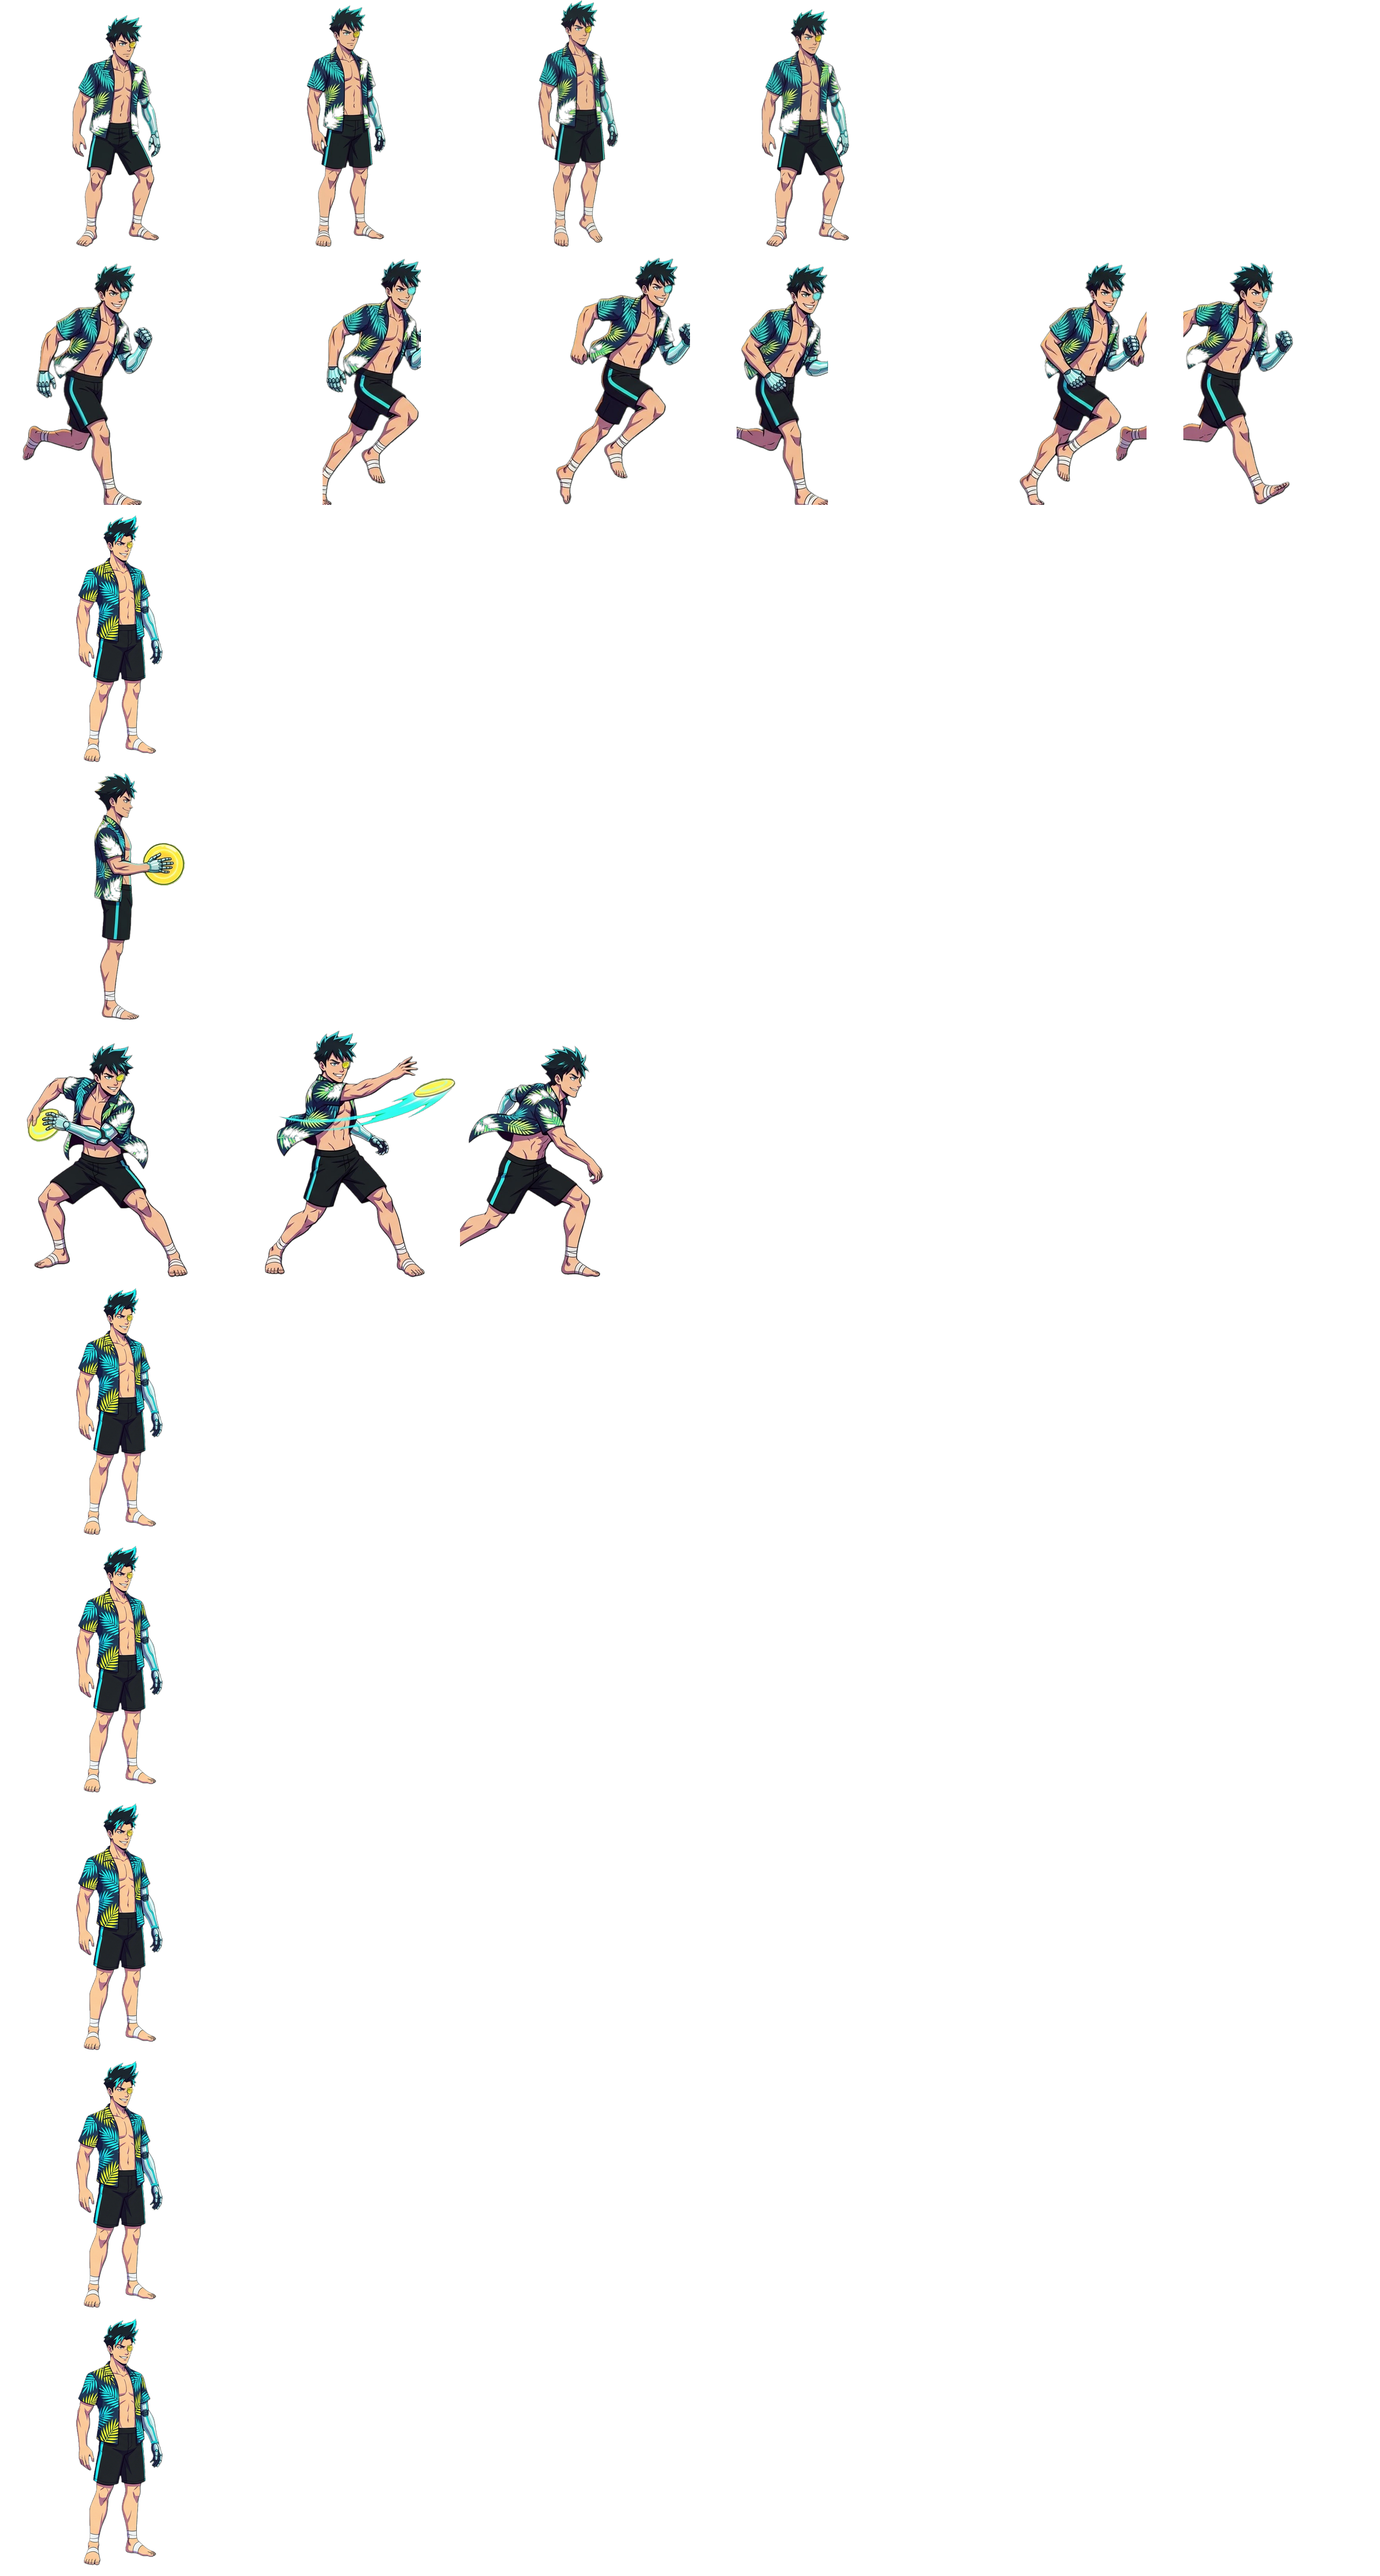
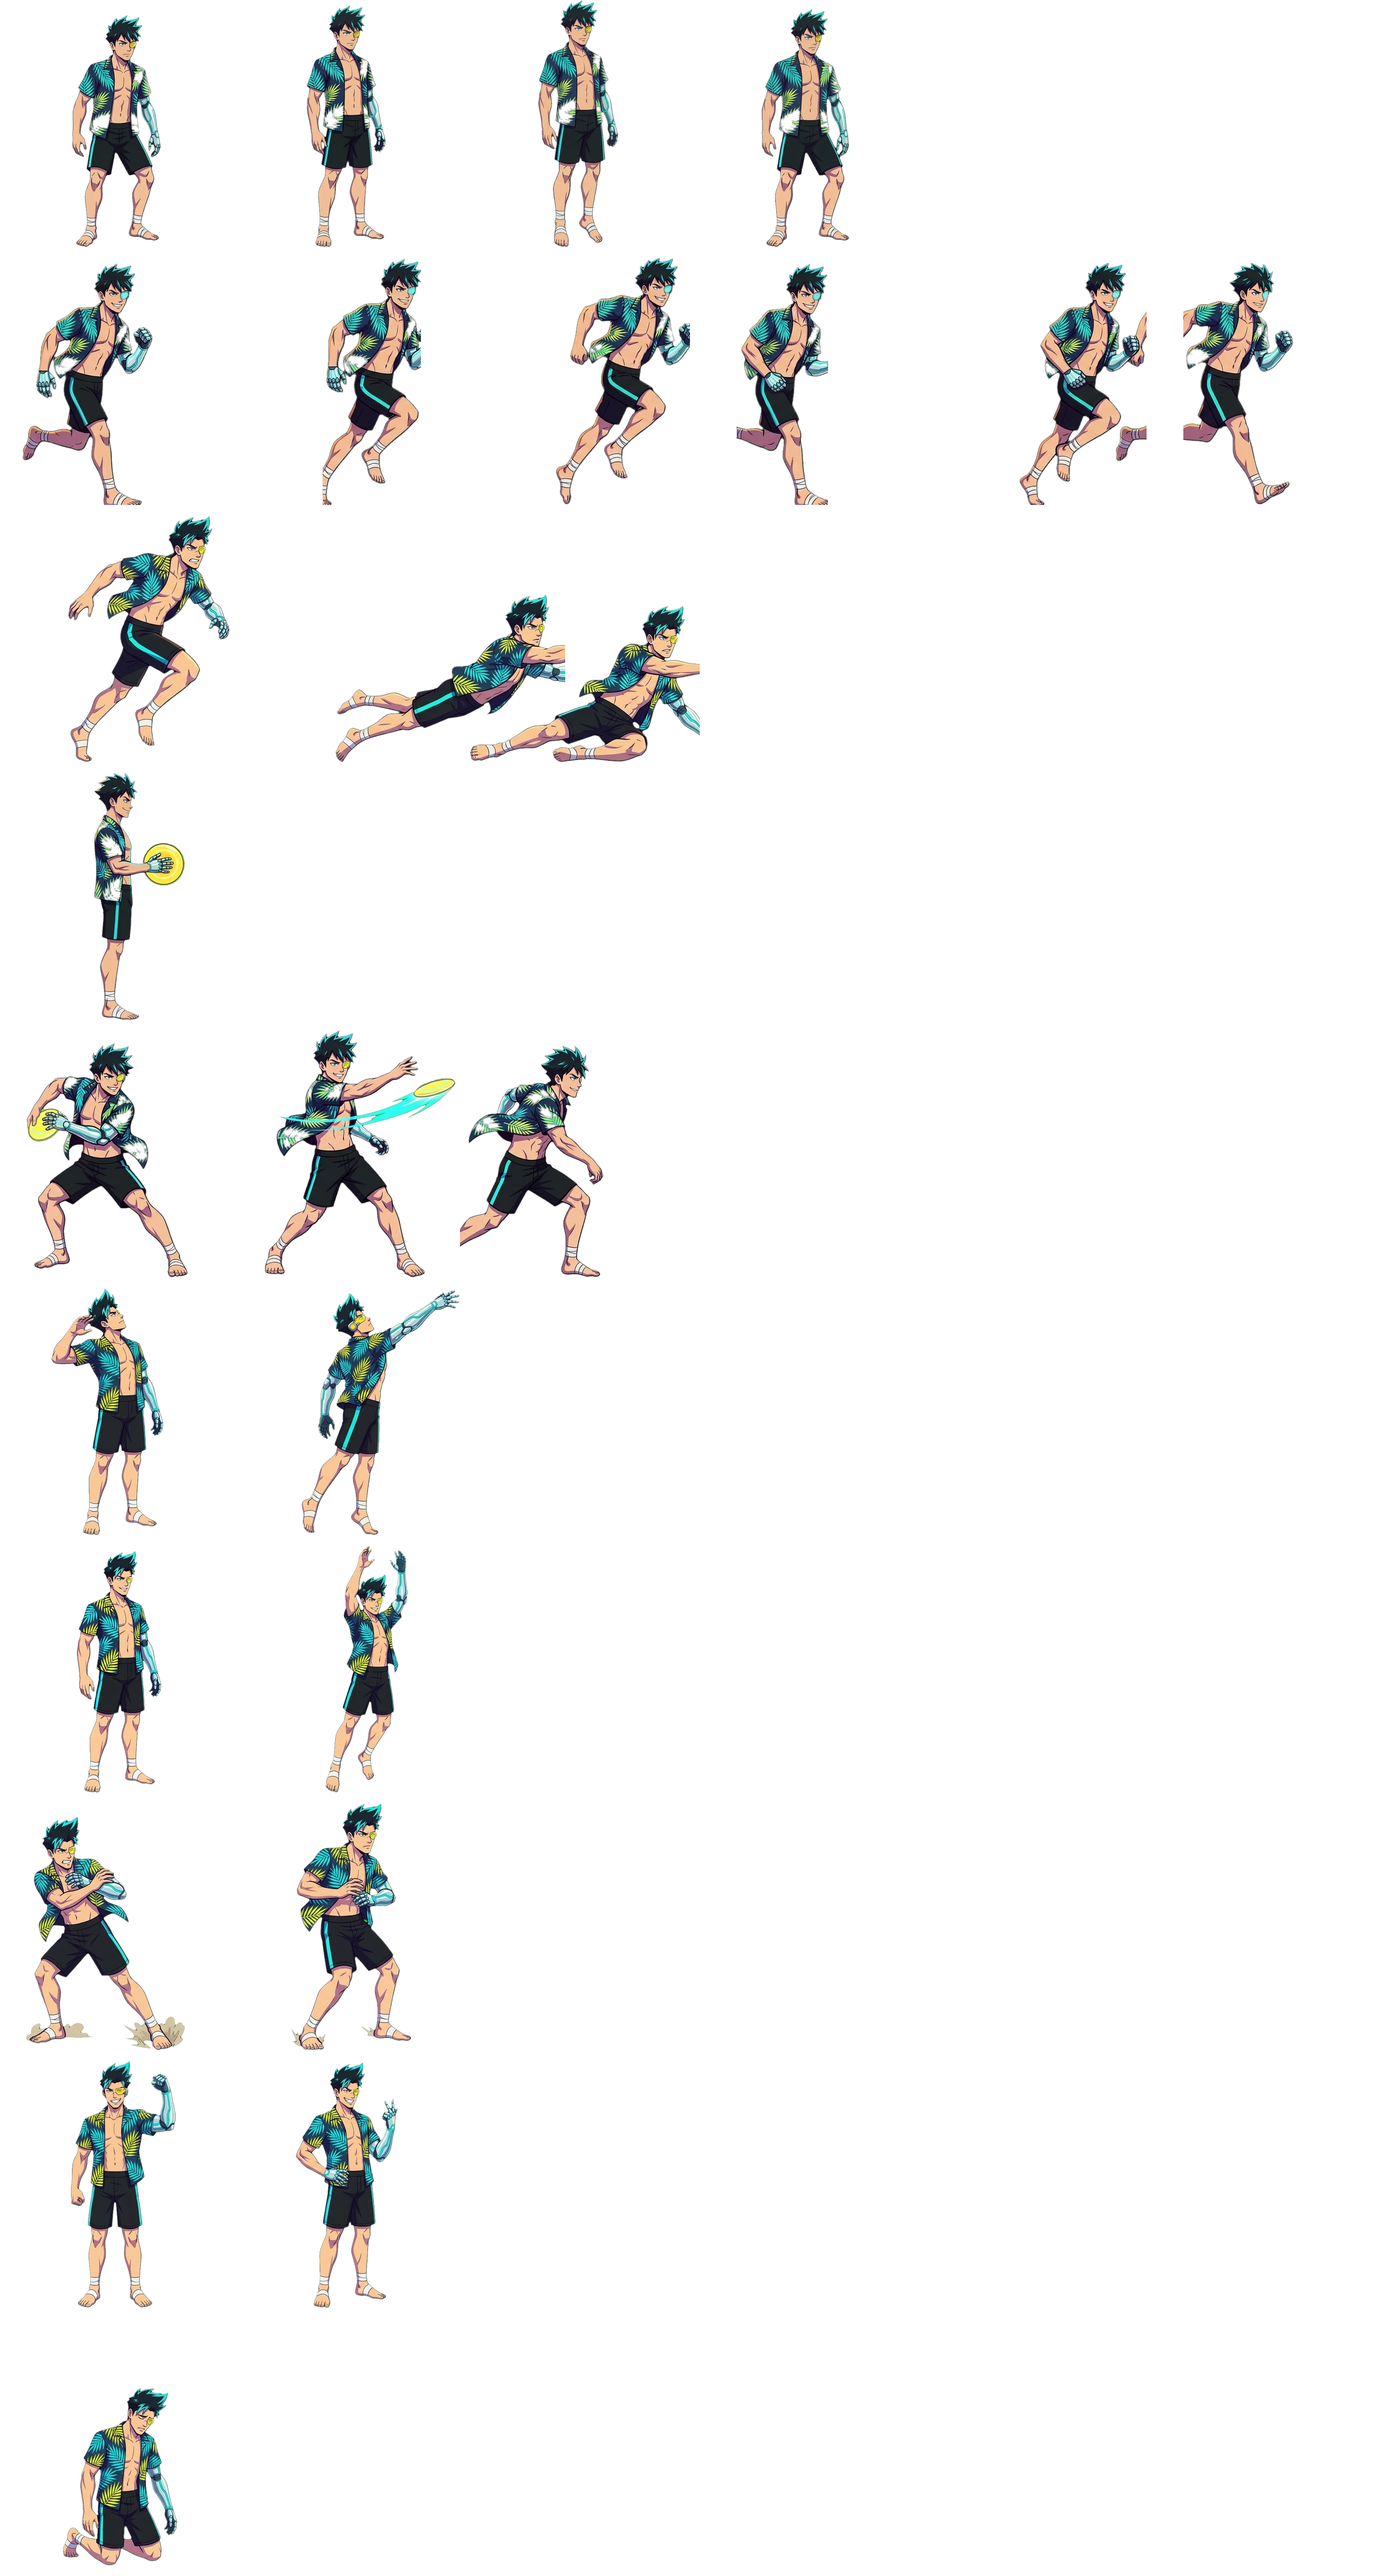
Integrate batch04 part 1: Vega + Kaito complete (dash/lob/block/knock/win/lose), Roxy throw; component-based slicing for overlapping figures; per-anim scale; requeue 4.14+
Claude-Session: https://claude.ai/code/session_019M5Dpgc2psw9ifHCzpuztd

diff --git a/tools/gen-assets/build_assets.py b/tools/gen-assets/build_assets.py
@@ -65,6 +65,41 @@ def frames_of(src: Path, expect: int, work: Path, ground_line=False):
     return sorted(fdir.glob("*.png"), key=lambda p: int(p.stem.rsplit("_", 1)[1]))
 
 
+def component_frames(src: Path, work: Path, picks: list, ground_line=False):
+    """Frames = separate connected figures (sorted left->right), for strips whose figures overlap
+    horizontally. A pick is a component index, or {"c": idx, "x0": .., "x1": ..} to trim a figure
+    that touches its neighbour (x in source-image pixels)."""
+    sys.path.insert(0, str(HERE))
+    import cv2
+    import process
+
+    work.mkdir(parents=True, exist_ok=True)
+    keyed = work / (src.stem + "_keyed.png")
+    run("key", src, keyed)
+    if ground_line:
+        strip_ground_line(keyed)
+    img = np.array(Image.open(keyed))
+    a = (img[..., 3] > 40).astype(np.uint8)
+    n, lbl, st, _ = cv2.connectedComponentsWithStats(a, 8)
+    comps = sorted([i for i in range(1, n) if st[i, cv2.CC_STAT_AREA] > a.size * 0.003], key=lambda i: st[i, cv2.CC_STAT_LEFT])
+    out = []
+    for k, p in enumerate(picks):
+        spec = p if isinstance(p, dict) else {"c": p}
+        mask = lbl == comps[spec["c"]]
+        if "x0" in spec or "x1" in spec:
+            xs = np.arange(img.shape[1])
+            mask &= (xs >= spec.get("x0", 0))[None, :] & (xs < spec.get("x1", img.shape[1]))[None, :]
+        # keep nearby soft edge pixels of this figure
+        mask = cv2.dilate(mask.astype(np.uint8), np.ones((3, 3), np.uint8)).astype(bool)
+        fr = img.copy()
+        fr[..., 3] = np.where(mask, fr[..., 3], 0)
+        fr = process.clean_frame(fr)
+        f = work / f"{src.stem}_c{k}.png"
+        Image.fromarray(fr, "RGBA").save(f)
+        out.append(f)
+    return out
+
+
 def build_character(cid: str, spec: dict):
     work = WORK / cid
     ref_frames = frames_of(HERE / spec["ref"], 4, work)
@@ -80,6 +115,10 @@ def build_character(cid: str, spec: dict):
                 vargs += ["--dur", a["dur"]]
             run(*vargs)
             anims[name] = {"frames": [str(vdir / f"k_{i:04d}.png") for i in a["frames"]], "fps": a.get("playFps", fps), "loop": loop}
+            flags[name] = {"discInArt": bool(a.get("discInArt"))}
+        elif a and a.get("mode") == "components":
+            fr = component_frames(HERE / a["src"], work, a["frames"], a.get("groundLine", False))
+            anims[name] = {"frames": [str(f) for f in fr], "fps": fps, "loop": loop, "scale": a.get("scale", 1.0)}
             flags[name] = {"discInArt": bool(a.get("discInArt"))}
         elif a:
             fr = frames_of(HERE / a["src"], a["expect"], work, a.get("groundLine", False))

diff --git a/CHECKLIST.md b/CHECKLIST.md
@@ -103,7 +103,7 @@ Order: idle(4) run(6) dash(3) hold(2) throw(3) lob(2) block(2) knock(2) win(2) l
 - ✅ Real animations: Vega and Kaito idle/run/hold/throw; Roxy and Brick idle/run/hold. The rest falls back to the interim pose with procedural motion.
 - ✅ Courts: all 4 arenas. ✅ Backdrops: Neon Pier, Laser Lagoon. ❌ Sunset and Orbital backdrops came back portrait: re-queued.
 - Pipeline: the slicer now splits overlapping figures (`--expect`), strips floor lines, and drops neighbour slivers. The renderer hides the 3D disc when the hold art shows it and tones painted courts down.
-- **batch04 READY:** Roxy/Brick throw, dash/lob/block/knock/win/lose for all 4, and 2 landscape backdrops (28 jobs).
+- 🔄 **batch04 partial** (4.01–4.13 approved: Vega and Kaito now have all 10 anims; Roxy throw). Remaining 4.14–4.28 are queued. Original description: Roxy/Brick throw, dash/lob/block/knock/win/lose for all 4, and 2 landscape backdrops (28 jobs).
 - ⏸ video01 (pilot, cancelled): Flow image-to-video, then `process.py video` extracts, keys, trims and makes a numbered sheet.jpg; `approved.json` anims accept `{"video": ..., "frames": [...]}`. Start frames live in `tools/gen-assets/video_starts/`. If the pilot looks good, switch the remaining animations to video.
 - Keying fixed: only border-connected green (or enclosed pockets matching the screen colour) is removed, so costume greens (Roxy's lime) survive.
 - ⏸ **video01/video02 CANCELLED** (user chose images via Antigravity). Tooling stays for later: 4 clips per character (A throw, B dive+lob, C block/knock/victory, D defeat) from `video_starts/<char>_start.png`. Batch04 is still needed for the 2 landscape backdrops (jobs 4.27–4.28).

diff --git a/tools/gen-assets/queue/batch04.md b/tools/gen-assets/queue/batch04.md
@@ -1,5 +1,5 @@
 # batch04: remaining animations + 2 landscape backdrops
-STATUS: PARTIAL
+STATUS: READY (partially done: RESUME AT JOB 4.14; jobs 4.01–4.13 are generated and reviewed)
 
 Variants per job: **2**. Characters use **Nano Banana 2**; backdrops use **Nano Banana Pro** if Flow offers it.
 **Every character job MUST attach its `refs:` image** (the approved reference sheet).
